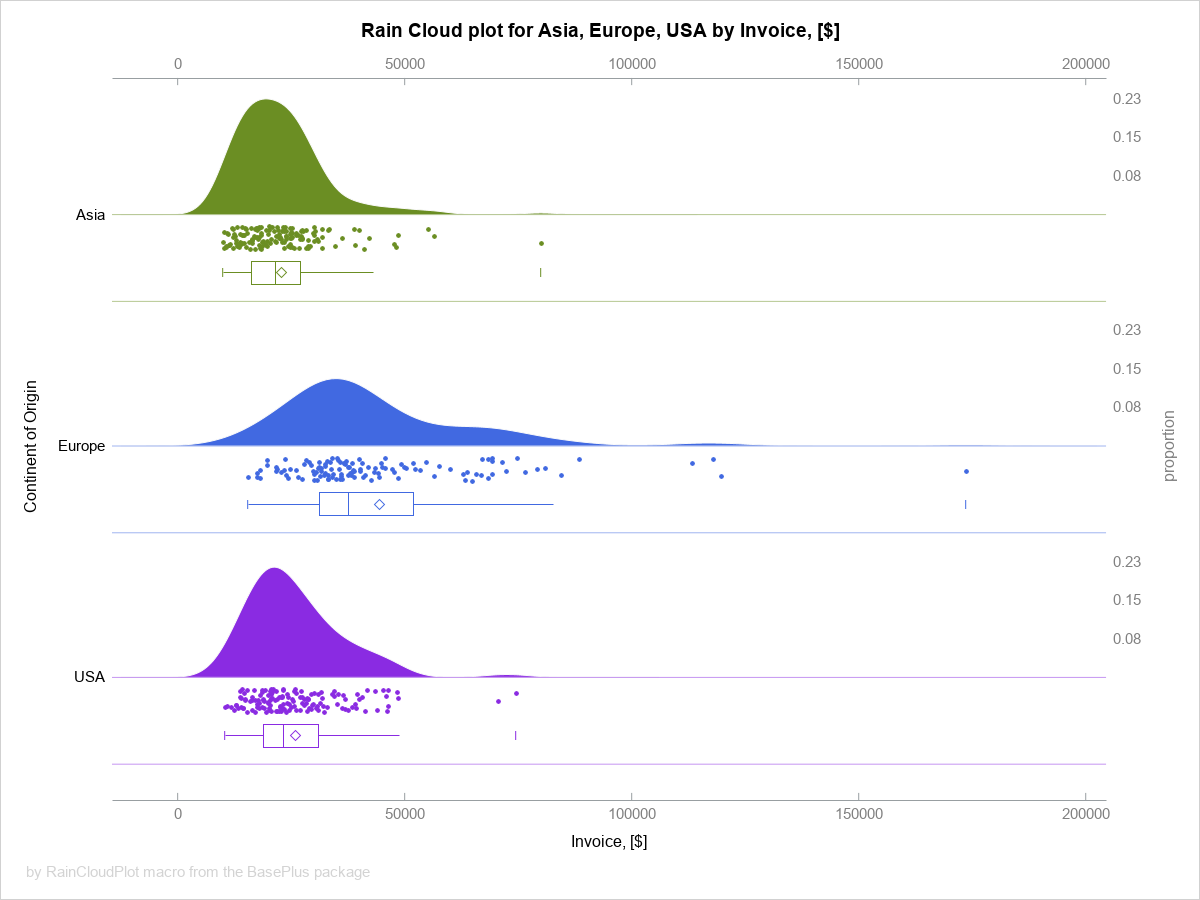
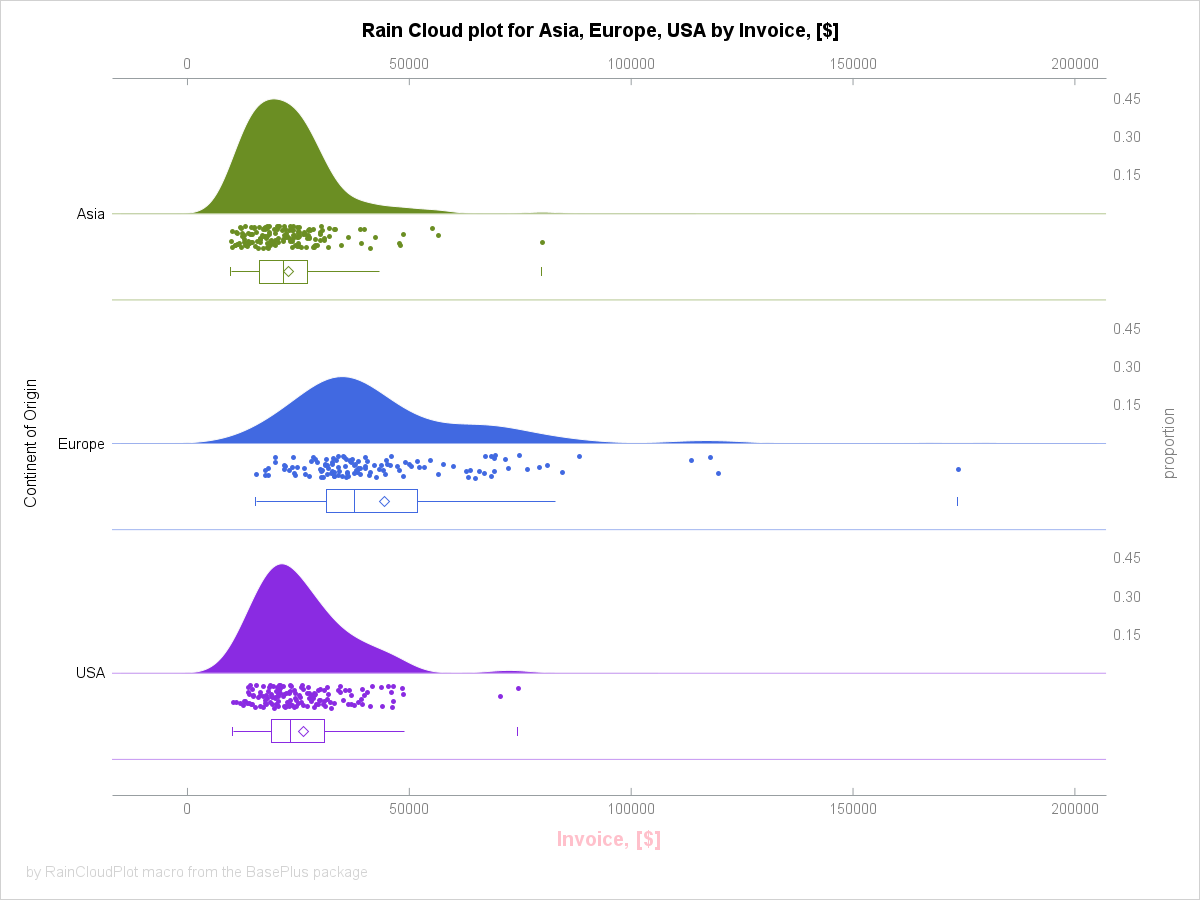
The BasePlus package [ver. 1.24.2]
The BasePlus package [ver. 1.24.2]

Updates:
- the `%RainCloudPlot()` has 2 new parameters: `catLabelAttrs` and `xLabelAttrs`,
- documentation was updated (new examples with plots), and
- some spellings were fixed.

The SHA256 hash digest for package BasePlus:
`F*2A4F3953EC56DB914024457F74286D565C23DCF220FF151040BDB704FD8DDB06`

diff --git a/packages/baseplus.md b/packages/baseplus.md
@@ -67,7 +67,7 @@
   
 ---
 
-# The BasePlus package [ver. 1.24.1] <a name="baseplus-package"></a> ###############################################
+# The BasePlus package [ver. 1.24.2] <a name="baseplus-package"></a> ###############################################
 
 The **BasePlus** package implements useful
 functions and functionalities I miss in the BASE SAS.
@@ -339,7 +339,7 @@ localization (only if additional content was deployed during the installation pr
 * SAS package generated by generatePackage, version 20230520 *
 
 The SHA256 hash digest for package BasePlus: 
-`F*0CCAA009D64CC20ED315FA123C233E0383967E635EB8708E7A48EEE3767C6BC5` 
+`F*2A4F3953EC56DB914024457F74286D565C23DCF220FF151040BDB704FD8DDB06` 
 
 ---
 # Content description ############################################################################################
@@ -3112,6 +3112,8 @@ The basic syntax is the following, the `<...>` means optional parameters:
  <,xLabels=>
  <,catLabelPos=> 
  <,xLabelPos=>
+ <,catLabelAttrs=>
+ <,xLabelAttrs=>
  <,formated=>
  <,y2axis=>
  <,y2axisLevels=>
@@ -3162,7 +3164,7 @@ The basic syntax is the following, the `<...>` means optional parameters:
                          granularity level, e.g. for data with value 
                          around `1e-8` should be decreased. 
 
-* `rainDropSiz`        - *Optional*, default value `5px`.
+* `rainDropSize`       - *Optional*, default value `5px`.
                          Size of data points in the "rain" plot.
 
 * `boxPlotSymbolSize`  - *Optional*, default value `8px`.
@@ -3205,11 +3207,19 @@ The basic syntax is the following, the `<...>` means optional parameters:
                          Indicates position of the label on data axix (horizontal).
                          Allowed values are `LEFT`, `CENTER`, `DATACENTER`, and `RIGHT`.
 
+* `catLabelAttrs`      - *Optional*, default value is empty. 
+                         List of attributes for group axix labels (vertical).
+                         For details see notes below.
+
+* `xLabelAttrs`        - *Optional*, default value is empty. 
+                         List of attributes for data variable axix labels (horizontal).
+                         For details see notes below.
+
 * `formated`           - *Optional*, default value `0`.
                          Indicates if values of the grouping variable should be formated.
 
 * `y2axis`             - *Optional*, default value `1`.
-                         Indicates if the righ vertical axix should be displayed.
+                         Indicates if the right vertical axix should be displayed.
 
 * `y2axisLevels`       - *Optional*, default value `4`.
                          Indicates if the number of expected levels of values printed 
@@ -3278,6 +3288,9 @@ The basic syntax is the following, the `<...>` means optional parameters:
 
 * The `catLabels` and `xLabels` should be quoted comma separated lists enclosed with brackets, 
   e.g. `catLabels=("Continent of Origin", "Car Type")`, see Example below.
+
+* The `catLabelAttrs` and `xLabelAttrs` should be space separated lists of `key=value` pairs,
+  e.g. `xLabelAttrs=size=12 color=Pink weight=bold`, see Example below.
 
 * Kernel density estimates and basic statistics are calculated with `PROC UNIVARIATE`.
 
@@ -3360,6 +3373,7 @@ The output:
   , y2axisLevels=3
   , catLabels=("Continent of Origin", "Car Type")
   , xLabels="Invoice, [$]"
+  , xLabelAttrs=size=12 color=Pink weight=bold
   )
 
 ~~~~~~~~~~~~~~~~~~~~~~~~~~~~~~~~~~~~~~~~~~~~~~~~~~~~~~~~~~~~~~~~
@@ -3370,7 +3384,7 @@ The output:
 
 
 
-**EXAMPLE 3.** Rain Cloud plot with formated groups:
+**EXAMPLE 3.** Rain Cloud plot with formatted groups
                and annotations.
 ~~~~~~~~~~~~~~~~~~~~~~~~~~~~~~~~~~~~~~~~~~~~~~~~~~~~~~~~~~~~~~~~sas
 
@@ -3400,7 +3414,7 @@ The output:
 
   data test;
     do system = 1 to 3;
-      do i = 1 to 30;
+      do i = 1 to 50;
         x = rannor(123)/system;
         output;
       end;
@@ -3410,14 +3424,18 @@ The output:
 
 
   %RainCloudPlot(test, system, x
+  , colorslist=CX88CCEE CX44AA99 CX117733
   , formated=1
   , sganno=annotation
   , sgPlotOptions=noborder
-  , WidthPX=2000
-  , HeightPX=420
+  , WidthPX=1000
+  , HeightPX=320
   )
 
 ~~~~~~~~~~~~~~~~~~~~~~~~~~~~~~~~~~~~~~~~~~~~~~~~~~~~~~~~~~~~~~~~
+
+The output:
+![Example 3](./baseplus_RainCloudPlot_Ex3.png)
 
 ---
 

diff --git a/README.md b/README.md
@@ -224,7 +224,7 @@ SHA256 digest for macroArray: F*85E3BE4D163AC5223B6EC9D3C25C46564A656E3830998B45
 
 [MacroArray in SASPAC](https://github.com/SASPAC/macroarray "MacroArray in SASPAC")
 
-- **BasePlus**\[1.24.1\] adds a bunch of functionalities I am missing in BASE SAS, such as:
+- **BasePlus**\[1.24.2\] adds a bunch of functionalities I am missing in BASE SAS, such as:
 ```sas
 call arrMissToRight(myArray); 
 call arrFillMiss(17, myArray); 
@@ -248,7 +248,7 @@ format x bool.;
 
 %put %repeatTxt(#,15,s=$) HELLO SAS! %repeatTxt(#,15,s=$);
 ```
-SHA256 digest for BasePlus: F*0CCAA009D64CC20ED315FA123C233E0383967E635EB8708E7A48EEE3767C6BC5
+SHA256 digest for BasePlus: F*2A4F3953EC56DB914024457F74286D565C23DCF220FF151040BDB704FD8DDB06
 
 [Documentation for BasePlus](https://github.com/yabwon/SAS_PACKAGES/blob/main/packages/baseplus.md "Documentation for BasePlus")
 

diff --git a/packages/README.md b/packages/README.md
@@ -86,7 +86,7 @@ SHA256 digest for macroArray: F*85E3BE4D163AC5223B6EC9D3C25C46564A656E3830998B45
 
 ---
 
-- **BasePlus**\[1.24.1\] adds a bunch of functionalities I am missing in BASE SAS, such as: 
+- **BasePlus**\[1.24.2\] adds a bunch of functionalities I am missing in BASE SAS, such as: 
 ```sas
 call arrMissToRight(myArray); 
 call arrFillMiss(17, myArray); 
@@ -110,7 +110,7 @@ format x bool.;
 
 %put %repeatTxt(#,15,s=$) HELLO SAS! %repeatTxt(#,15,s=$);
 ```
-SHA256 digest for BasePlus: F*0CCAA009D64CC20ED315FA123C233E0383967E635EB8708E7A48EEE3767C6BC5
+SHA256 digest for BasePlus: F*2A4F3953EC56DB914024457F74286D565C23DCF220FF151040BDB704FD8DDB06
 
 [Documentation for BasePlus](https://github.com/yabwon/SAS_PACKAGES/blob/main/packages/baseplus.md "Documentation for BasePlus")
 
